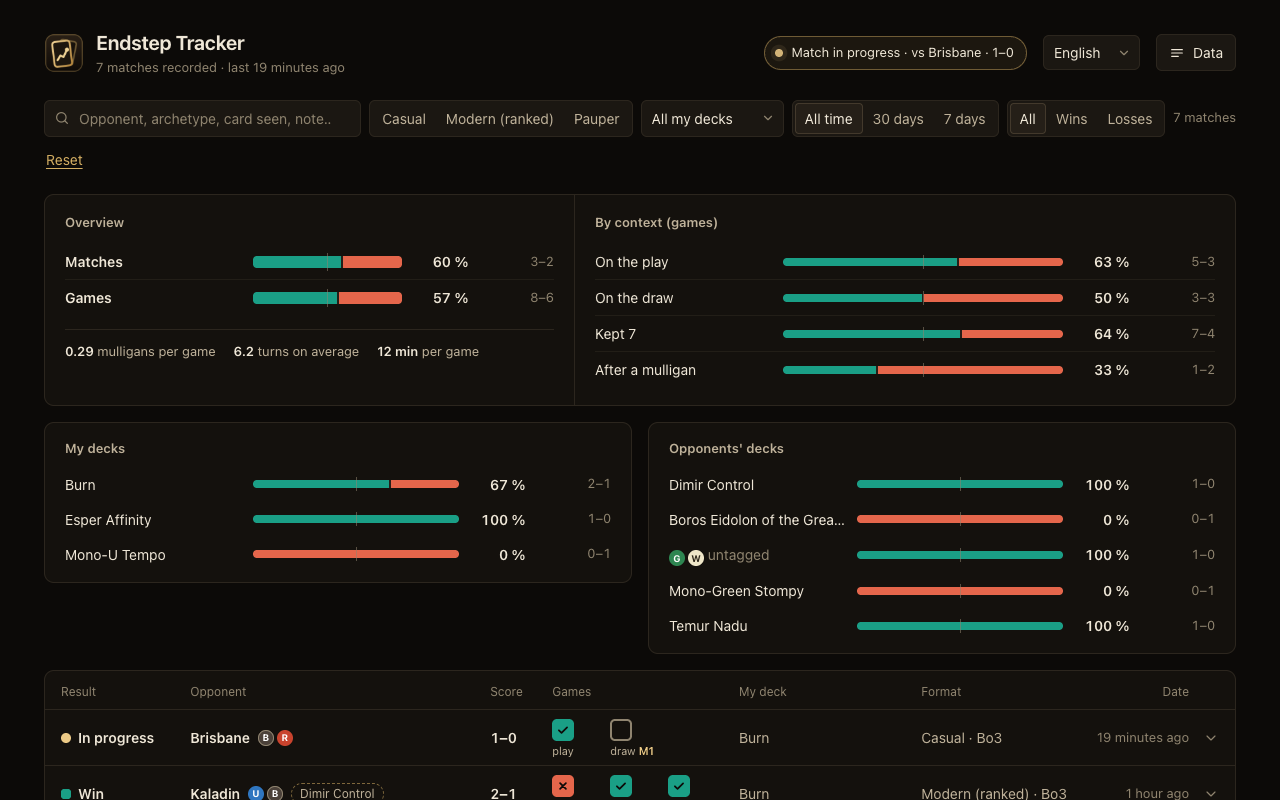
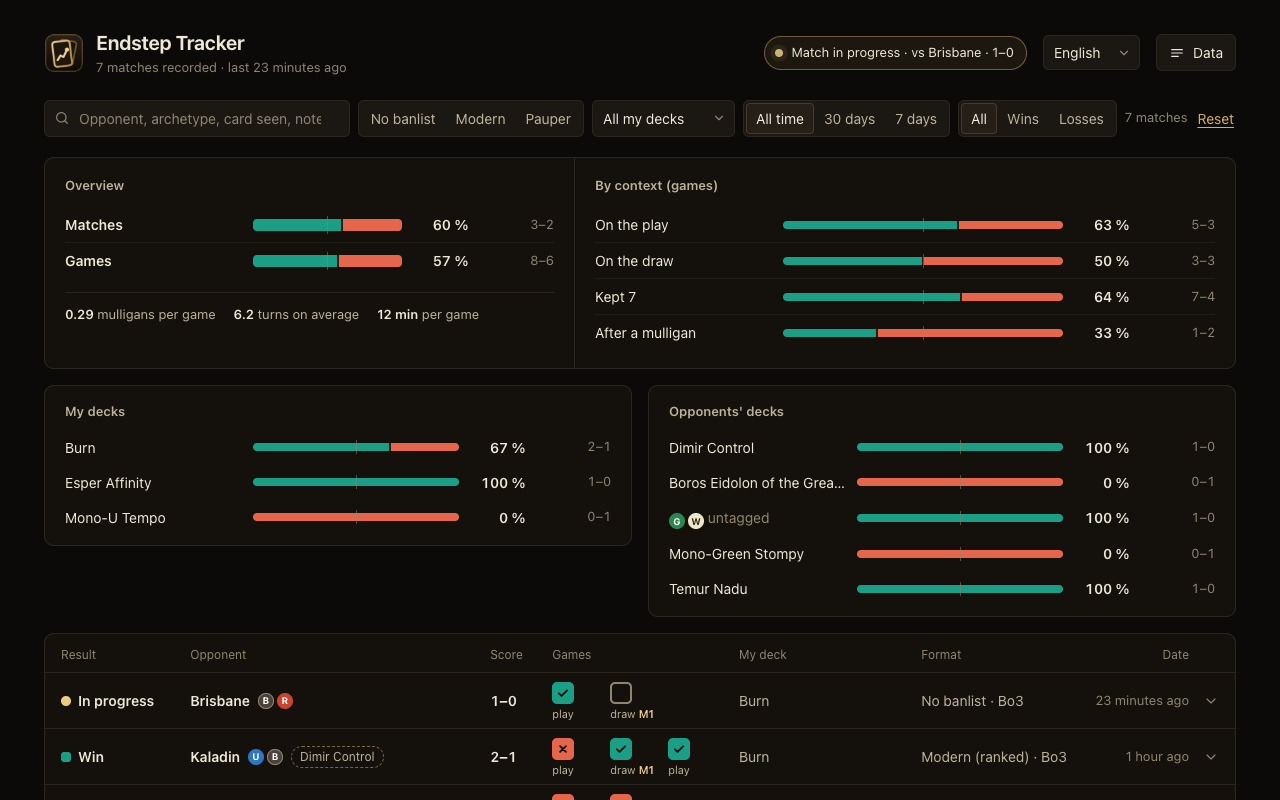
Format chips on the format alone: ranked is a queue, not a format; "No banlist" for formatless constructed
formatOf(m) feeds the chips and the filter, fmt(m) keeps the "(ranked)" suffix for the list column and
the exports. The formatless bucket reads "No banlist" / "Sans banlist" instead of "Casual", which was
read as the casual queue.

diff --git a/dashboard.js b/dashboard.js
@@ -83,10 +83,13 @@ const endReason = (r) => (r ? (END_REASON[r] ? t(END_REASON[r]) : r) : '');
 const resultLabel = (r) => t(RESULT[r]);
 const liveMatch = () => matches.find((m) => m.status === 'active' && Date.now() - m.updatedAt < STALE_MS);
 
-function fmt(m) {
+// The format alone (the site's formatId, else its game kind; constructed without a banlist is "no banlist").
+function formatOf(m) {
   const base = m.formatId && m.formatId !== 'casual' ? m.formatId : m.format && m.format !== 'constructed' ? m.format : t('casual');
-  return base.charAt(0).toUpperCase() + base.slice(1) + (m.ranked ? t('ranked_suffix') : '');
+  return base.charAt(0).toUpperCase() + base.slice(1);
 }
+// Format as displayed: ranked is a queue, not a format, so it is a suffix here and absent from the format chips.
+const fmt = (m) => formatOf(m) + (m.ranked ? t('ranked_suffix') : '');
 
 function scoreText(m) {
   if (!m.score || !m.score.length) return '';
@@ -132,7 +135,7 @@ function savePrefs() {
   try { localStorage.setItem(PREFS, JSON.stringify(state)); } catch { /* storage unavailable */ }
 }
 // Formats by number of matches, most played first. Default selection: the most played one alone; none selected = all.
-const formatCounts = () => { const c = {}; for (const m of matches) c[fmt(m)] = (c[fmt(m)] || 0) + 1; return Object.entries(c).sort((a, b) => b[1] - a[1] || a[0].localeCompare(b[0], locale)); };
+const formatCounts = () => { const c = {}; for (const m of matches) c[formatOf(m)] = (c[formatOf(m)] || 0) + 1; return Object.entries(c).sort((a, b) => b[1] - a[1] || a[0].localeCompare(b[0], locale)); };
 const defaultFormats = () => (matches.length ? [formatCounts()[0][0]] : []);
 const activeFormats = () => (state.formats === null ? defaultFormats() : state.formats);
 const formatsDefault = () => state.formats === null || (state.formats.length === defaultFormats().length && state.formats.every((f) => defaultFormats().includes(f)));
@@ -147,7 +150,7 @@ function filtered() {
   const q = state.q.trim().toLowerCase();
   const since = state.period === 'all' ? 0 : Date.now() - Number(state.period) * 864e5;
   const fmts = activeFormats();
-  return matches.filter((m) => (!fmts.length || fmts.includes(fmt(m)))
+  return matches.filter((m) => (!fmts.length || fmts.includes(formatOf(m)))
     && (!state.deck || deckName(m) === state.deck)
     && m.startedAt >= since
     && (state.result === 'all' || m.result === state.result)
